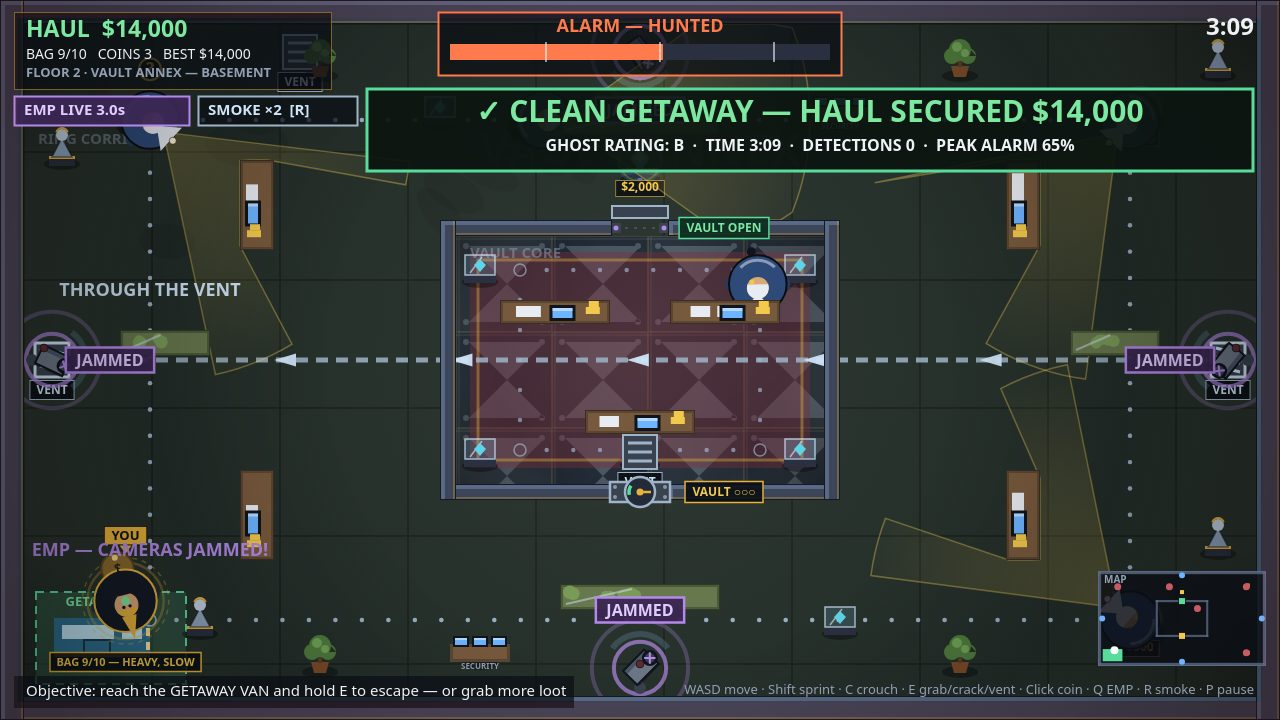
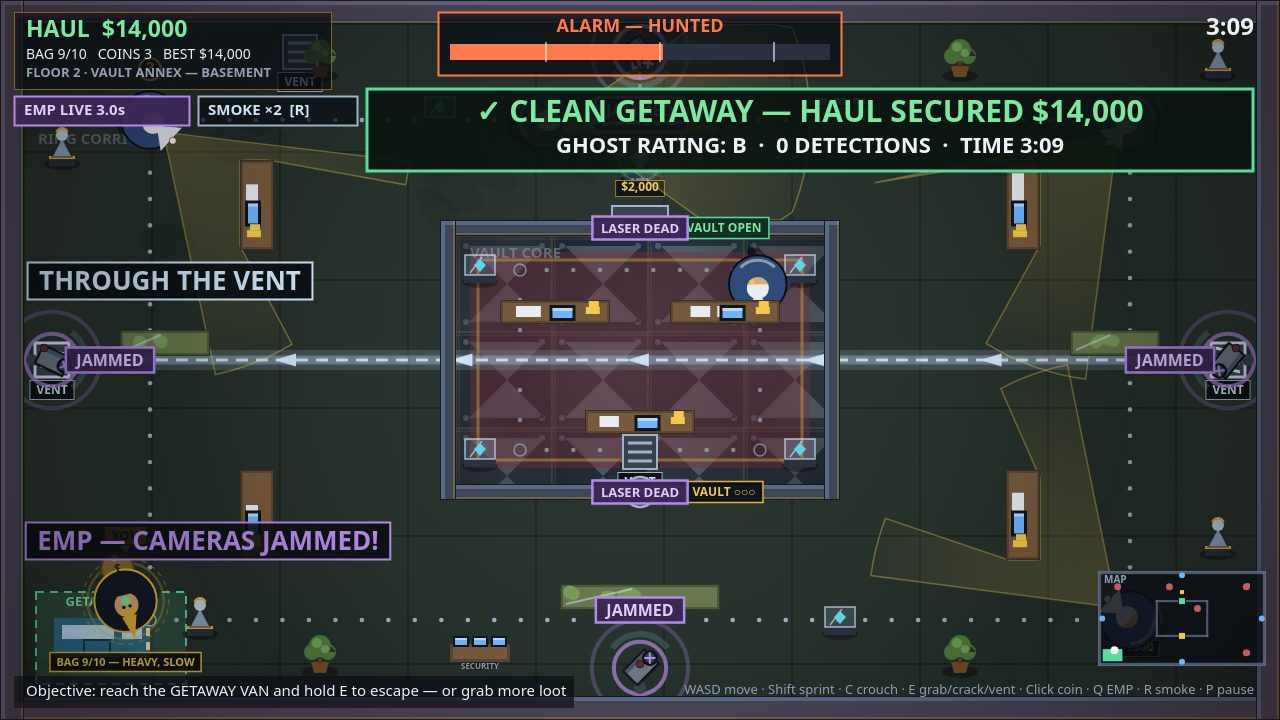
VAULT ZERO round 10: EMP-killed lasers proven on the cover (fat grey dead beams, sparking violet emitters, LASER DEAD pills drawn over the doorway walls beside the JAMMED cameras while live cones still sweep), vent transit completed (duct interior band under the dashed trail + chevrons, THROUGH THE 

diff --git a/game/src/draw-rooms.js b/game/src/draw-rooms.js
@@ -342,8 +342,22 @@ export function drawVents(ctx, state) {
   const trail = state.ventTrail;
   if (trail) {
     const alpha = Math.max(0, Math.min(1, trail.life / 1.8));
-    ctx.strokeStyle = `rgba(159,180,200,${(0.85 * alpha).toFixed(3)})`;
-    ctx.lineWidth = 5;
+    // The duct interior itself: a fat translucent run between the grates, so the
+    // transit reads as a route travelled — not just a dashed annotation.
+    ctx.strokeStyle = `rgba(120,140,165,${(0.30 * alpha).toFixed(3)})`;
+    ctx.lineWidth = 20;
+    ctx.beginPath();
+    ctx.moveTo(trail.x1, trail.y1);
+    ctx.lineTo(trail.x2, trail.y2);
+    ctx.stroke();
+    ctx.strokeStyle = `rgba(159,180,200,${(0.45 * alpha).toFixed(3)})`;
+    ctx.lineWidth = 9;
+    ctx.beginPath();
+    ctx.moveTo(trail.x1, trail.y1);
+    ctx.lineTo(trail.x2, trail.y2);
+    ctx.stroke();
+    ctx.strokeStyle = `rgba(207,228,247,${(0.9 * alpha).toFixed(3)})`;
+    ctx.lineWidth = 3;
     ctx.setLineDash([12, 8]);
     ctx.beginPath();
     ctx.moveTo(trail.x1, trail.y1);
@@ -629,26 +643,27 @@ export function drawLasers(ctx, state) {
       ctx.lineTo(laser.x2, laser.y2);
       ctx.stroke();
     } else if (empDead) {
-      // EMP-killed tripwire: grey dead beam, violet emitters spitting sparks —
-      // visibly OFF, not merely unarmed.
-      ctx.strokeStyle = 'rgba(147,160,180,0.35)';
-      ctx.lineWidth = 1.5;
-      ctx.setLineDash([3, 6]);
+      // EMP-killed tripwire: a fat grey dead beam, big violet emitters spitting
+      // sparks, and a LASER DEAD pill — the EMP's proof on lasers must read at
+      // contact-sheet size, not merely differ from the unarmed dashed red.
+      ctx.strokeStyle = 'rgba(147,160,180,0.65)';
+      ctx.lineWidth = 3;
+      ctx.setLineDash([7, 5]);
       ctx.beginPath();
       ctx.moveTo(laser.x1, laser.y1);
       ctx.lineTo(laser.x2, laser.y2);
       ctx.stroke();
       ctx.setLineDash([]);
-      const spark = hash2(Math.floor(state.elapsed * 6), laser.x1 + laser.y1) > 0.45;
+      const spark = hash2(Math.floor(state.elapsed * 6), laser.x1 + laser.y1) > 0.35;
       if (spark) {
-        ctx.strokeStyle = 'rgba(180,138,232,0.9)';
-        ctx.lineWidth = 1.5;
+        ctx.strokeStyle = 'rgba(199,160,255,0.95)';
+        ctx.lineWidth = 2.5;
         for (const [ex, ey] of [[laser.x1, laser.y1], [laser.x2, laser.y2]]) {
           ctx.beginPath();
-          ctx.moveTo(ex - 5, ey - 6);
-          ctx.lineTo(ex + 1, ey - 1);
-          ctx.lineTo(ex - 2, ey + 2);
-          ctx.lineTo(ex + 5, ey + 6);
+          ctx.moveTo(ex - 8, ey - 10);
+          ctx.lineTo(ex + 2, ey - 2);
+          ctx.lineTo(ex - 3, ey + 3);
+          ctx.lineTo(ex + 8, ey + 10);
           ctx.stroke();
         }
       }
@@ -662,27 +677,49 @@ export function drawLasers(ctx, state) {
       ctx.stroke();
       ctx.setLineDash([]);
     }
-    ctx.fillStyle = '#39424f';
-    ctx.fillRect(laser.x1 - 5, laser.y1 - 5, 10, 10);
-    ctx.fillRect(laser.x2 - 5, laser.y2 - 5, 10, 10);
+    const emitHalf = empDead ? 8 : 5; // dead emitters swell: fried housings read bigger
+    ctx.fillStyle = empDead ? '#4a3566' : '#39424f';
+    ctx.fillRect(laser.x1 - emitHalf, laser.y1 - emitHalf, emitHalf * 2, emitHalf * 2);
+    ctx.fillRect(laser.x2 - emitHalf, laser.y2 - emitHalf, emitHalf * 2, emitHalf * 2);
+    if (empDead) {
+      ctx.strokeStyle = PALETTE.emp;
+      ctx.lineWidth = 2;
+      ctx.strokeRect(laser.x1 - emitHalf + 0.5, laser.y1 - emitHalf + 0.5, emitHalf * 2 - 1, emitHalf * 2 - 1);
+      ctx.strokeRect(laser.x2 - emitHalf + 0.5, laser.y2 - emitHalf + 0.5, emitHalf * 2 - 1, emitHalf * 2 - 1);
+    }
     ctx.fillStyle = armed ? PALETTE.laser : empDead ? PALETTE.emp : '#6b7686';
     ctx.beginPath();
-    ctx.arc(laser.x1, laser.y1, 2.5, 0, Math.PI * 2);
-    ctx.arc(laser.x2, laser.y2, 2.5, 0, Math.PI * 2);
+    ctx.arc(laser.x1, laser.y1, empDead ? 4 : 2.5, 0, Math.PI * 2);
+    ctx.arc(laser.x2, laser.y2, empDead ? 4 : 2.5, 0, Math.PI * 2);
     ctx.fill();
-    if (armed) {
-      const mx = (laser.x1 + laser.x2) / 2;
-      const my = (laser.y1 + laser.y2) / 2;
-      ctx.textBaseline = 'middle';
-      ctx.font = `700 10px ${FONT}`;
-      const labelW = ctx.measureText('LASER').width + 12;
-      ctx.fillStyle = 'rgba(90,20,28,0.9)';
-      ctx.fillRect(mx - labelW / 2, my - 9, labelW, 18);
-      ctx.strokeStyle = PALETTE.laser;
-      ctx.lineWidth = 1.5;
-      ctx.strokeRect(mx - labelW / 2 + 0.5, my - 8.5, labelW - 1, 17);
-      text(ctx, 'LASER', mx, my + 1, 10, '#ffb3ba', 'center', true);
-    }
+  }
+}
+
+/**
+ * Laser state pills, drawn after the walls (like the camera pills): a beam sits
+ * in a doorway gap narrower than its label, so the pill must ride over the wall
+ * ends flanking it or the text is eaten. LASER DEAD gets the JAMMED treatment
+ * (violet, 13px) — the judge reads "the EMP killed this laser" at a glance.
+ */
+export function drawLaserLabels(ctx, state) {
+  const empDead = state.empTimer > 0;
+  const armed = ALARM.levels[state.alarmLevel].lasersArmed && !empDead;
+  if (!armed && !empDead) return;
+  for (const laser of state.lasers) {
+    const mx = (laser.x1 + laser.x2) / 2;
+    const my = (laser.y1 + laser.y2) / 2;
+    ctx.textBaseline = 'middle';
+    const pillText = empDead ? 'LASER DEAD' : 'LASER';
+    const fontSize = empDead ? 13 : 10;
+    const pillH = empDead ? 24 : 18;
+    ctx.font = `700 ${fontSize}px ${FONT}`;
+    const labelW = ctx.measureText(pillText).width + (empDead ? 18 : 12);
+    ctx.fillStyle = empDead ? 'rgba(58,38,84,0.95)' : 'rgba(90,20,28,0.9)';
+    ctx.fillRect(mx - labelW / 2, my - pillH / 2, labelW, pillH);
+    ctx.strokeStyle = empDead ? PALETTE.emp : PALETTE.laser;
+    ctx.lineWidth = empDead ? 2.5 : 1.5;
+    ctx.strokeRect(mx - labelW / 2 + 0.5, my - pillH / 2 + 0.5, labelW - 1, pillH - 1);
+    text(ctx, pillText, mx, my + 1, fontSize, empDead ? '#e2ccff' : '#ffb3ba', 'center', true);
   }
 }
 

diff --git a/game/src/draw-hud.js b/game/src/draw-hud.js
@@ -239,24 +239,34 @@ export function drawGetawayBanner(ctx, state, rating) {
   ctx.textBaseline = 'top';
   text(ctx, `✓ CLEAN GETAWAY — HAUL SECURED $${state.player.haul.toLocaleString('en-US')}`,
     x + width / 2, y + 10, 30, '#7de8a0', 'center', true);
-  text(ctx, `GHOST RATING: ${rating || '—'}  ·  TIME ${formatTime(state.elapsed)}  ·  DETECTIONS ${state.detections}  ·  PEAK ALARM ${Math.round(state.alarmPeak)}%`,
-    x + width / 2, y + 50, 16, PALETTE.text, 'center', true);
+  // Sub-line kept to three big facts at 22px: rating, detections, time. (Peak
+  // alarm lives on the win report panel; at thumbnail size four facts at 16px
+  // read as none.)
+  text(ctx, `GHOST RATING: ${rating || '—'}  ·  ${state.detections} DETECTIONS  ·  TIME ${formatTime(state.elapsed)}`,
+    x + width / 2, y + 48, 22, PALETTE.text, 'center', true);
 }
 
-export function drawPanel(ctx, title, titleColor, lines, prompt) {
-  const width = 560;
-  const height = 104 + lines.length * 27 + 48;
-  const x = (FIELD.width - width) / 2;
-  const y = (FIELD.height - height) / 2;
+export function drawPanel(ctx, title, titleColor, lines, prompt, opts) {
+  // Default: the big centred report panel (title / pause / win). `opts.compact`
+  // shrinks it and anchors it bottom-left, so the caught report stops swallowing
+  // the frame — the room, the cones and the bust itself stay visible around it.
+  const compact = !!(opts && opts.compact);
+  const width = compact ? 520 : 560;
+  const titleSize = compact ? 30 : 34;
+  const lineSize = compact ? 15 : 16;
+  const lineStep = compact ? 24 : 27;
+  const height = (compact ? 88 : 104) + lines.length * lineStep + 48;
+  const x = compact ? 24 : (FIELD.width - width) / 2;
+  const y = compact ? FIELD.height - height - 58 : (FIELD.height - height) / 2;
   ctx.fillStyle = PALETTE.panel;
   ctx.fillRect(x, y, width, height);
   ctx.strokeStyle = PALETTE.panelEdge;
   ctx.lineWidth = 2;
   ctx.strokeRect(x + 1, y + 1, width - 2, height - 2);
   ctx.textBaseline = 'top';
-  text(ctx, title, FIELD.width / 2, y + 20, 34, titleColor, 'center', true);
+  text(ctx, title, x + width / 2, y + 20, titleSize, titleColor, 'center', true);
   lines.forEach((line, i) => {
-    text(ctx, line, FIELD.width / 2, y + 78 + i * 27, 16, PALETTE.text, 'center');
+    text(ctx, line, x + width / 2, y + (compact ? 66 : 78) + i * lineStep, lineSize, PALETTE.text, 'center');
   });
-  text(ctx, prompt, FIELD.width / 2, y + height - 38, 15, PALETTE.playerTrim, 'center', true);
+  text(ctx, prompt, x + width / 2, y + height - 38, 15, PALETTE.playerTrim, 'center', true);
 }

diff --git a/game/src/render.js b/game/src/render.js
@@ -12,8 +12,8 @@
 import { FIELD, PALETTE } from './config.js';
 import { formatTime } from './draw-helpers.js';
 import {
-  drawExtractZone, drawFloors, drawLasers, drawLoot, drawPatrolRoutes, drawProps,
-  drawVaultDoors, drawVents, drawWalls,
+  drawExtractZone, drawFloors, drawLaserLabels, drawLasers, drawLoot, drawPatrolRoutes,
+  drawProps, drawVaultDoors, drawVents, drawWalls,
 } from './draw-rooms.js';
 import {
   drawCameraLabels, drawCameras, drawEffects, drawGuards, drawPlayer, drawSmoke,
@@ -67,6 +67,7 @@ export function createRenderer(canvas) {
     drawGuards(ctx, state);
     drawWalls(ctx, state);     // walls over cone edges so rooms read cleanly
     drawVaultDoors(ctx, state); // steel slabs + dials over the walls they seal
+    drawLaserLabels(ctx, state); // LASER / LASER DEAD pills over the doorway walls
     drawCameraLabels(ctx, state); // pills over the walls, under the thief
     drawPlayer(ctx, state);
     drawSmoke(ctx, state);     // smoke clouds swallow whoever stands in them
@@ -96,11 +97,13 @@ export function createRenderer(canvas) {
       drawPanel(ctx, 'PAUSED', PALETTE.text, ['The bank holds its breath.'], 'Press P or SPACE to resume');
     } else if (screen === SCREEN_OVER) {
       drawHud(ctx, state, best);
+      // Compact bottom-left report: the bust itself (guard, red cone, thief) is
+      // the evidence the moment was fair — it stays on screen around the panel.
       drawPanel(ctx, 'CAUGHT!', '#ff4d5e', [
-        'A guard got a hand on you. The vault keeps its secrets — this time.',
+        'A guard got a hand on you — the vault keeps its secrets.',
         `Haul lost: $${state.player.haul.toLocaleString('en-US')} · Time: ${formatTime(state.elapsed)}`,
         `Detections: ${state.detections} · Peak alarm: ${Math.round(state.alarmPeak)}%`,
-      ], 'Press SPACE or click to try the heist again');
+      ], 'Press SPACE or click to try the heist again', { compact: true });
     } else if (screen === SCREEN_WIN) {
       drawHud(ctx, state, best);
       const next = state.levelIndex + 1 < 3

diff --git a/game/src/world.js b/game/src/world.js
@@ -72,10 +72,14 @@ export function createWorld(random) {
     }
   }
 
-  function floater(x, y, text, color) {
+  function floater(x, y, text, color, size) {
     // Keep labels inside the field so edge events (west-wall vents, the van) stay readable.
-    const cx = Math.max(110, Math.min(FIELD.width - 110, x));
-    state.floaters.push({ x: cx, y, text, color, life: 1.4 });
+    // Big pill-backed labels are wider, so they clamp further from the edges.
+    const margin = (size || 18) >= 24 ? 175 : 110;
+    const cx = Math.max(margin, Math.min(FIELD.width - margin, x));
+    // Big floaters (size >= 24) are the tool proofs — EMP, vent transit — drawn
+    // with a pill backing so they survive shrinking to a thumbnail.
+    state.floaters.push({ x: cx, y, text, color, life: 1.4, size: size || 18 });
   }
 
   function loadLevel(index) {
@@ -365,7 +369,7 @@ export function createWorld(random) {
       state.empTimer = TOOLS.empSeconds;
       events.value |= EVENT_EMP;
       burst(p.x, p.y, '#b48ae8', 20, 160);
-      floater(p.x, p.y - 34, 'EMP — CAMERAS JAMMED!', '#b48ae8');
+      floater(p.x, p.y - 34, 'EMP — CAMERAS JAMMED!', '#b48ae8', 26);
     }
     if (input.smoke && p.smoke > 0) {
       p.smoke -= 1;
@@ -391,7 +395,7 @@ export function createWorld(random) {
           p.x = dest.x;
           p.y = dest.y;
           burst(p.x, p.y, '#9fb4c8', 10, 60);
-          floater(p.x, p.y - 30, 'THROUGH THE VENT', '#cfe4f7');
+          floater(p.x, p.y - 30, 'THROUGH THE VENT', '#cfe4f7', 26);
           events.value |= EVENT_VENT;
         }
       }

diff --git a/game/src/shots.js b/game/src/shots.js
@@ -193,8 +193,10 @@ function stageExtract(world) {
   // Hold the evidence at full strength for the still: duct trail bright between
   // the grates, both tool floaters up (the sim has stopped, so they hold).
   world.setVentTrail(1228, 360, 52, 360);
-  world.state.floaters.push({ x: 150, y: 300, text: 'THROUGH THE VENT', color: '#cfe4f7', life: 1.4 });
-  world.state.floaters.push({ x: 150, y: 560, text: 'EMP — CAMERAS JAMMED!', color: '#b48ae8', life: 1.4 });
+  // Big pill-backed floaters (size 26): the vent transit and the EMP window are
+  // the frame's two tool proofs — they must read in the extract thumbnail.
+  world.state.floaters.push({ x: 170, y: 296, text: 'THROUGH THE VENT', color: '#cfe4f7', life: 1.4, size: 26 });
+  world.state.floaters.push({ x: 208, y: 556, text: 'EMP — CAMERAS JAMMED!', color: '#b48ae8', life: 1.4, size: 26 });
   return { screen: SCREEN_PLAY, best: 14000, rating: world.ghostRating() };
 }
 

diff --git a/game/src/draw-actors.js b/game/src/draw-actors.js
@@ -509,8 +509,21 @@ export function drawEffects(ctx, state) {
   ctx.globalAlpha = 1;
   ctx.textBaseline = 'bottom';
   for (const f of state.floaters) {
+    const size = f.size || 18;
     ctx.globalAlpha = Math.min(1, f.life);
-    text(ctx, f.text, f.x, f.y, 18, f.color, 'center', true);
+    // Big floaters (the tool proofs: EMP, vent transit) ride on a dark pill so
+    // the label stays readable when the frame shrinks to a thumbnail.
+    if (size >= 24) {
+      ctx.font = `700 ${size}px ${FONT}`;
+      const w = ctx.measureText(f.text).width + 24;
+      const h = size + 12;
+      ctx.fillStyle = 'rgba(11,14,20,0.88)';
+      ctx.fillRect(f.x - w / 2, f.y - h + 4, w, h);
+      ctx.strokeStyle = f.color;
+      ctx.lineWidth = 2;
+      ctx.strokeRect(f.x - w / 2 + 0.5, f.y - h + 4.5, w - 1, h - 1);
+    }
+    text(ctx, f.text, f.x, f.y, size, f.color, 'center', true);
   }
   ctx.globalAlpha = 1;
 }
